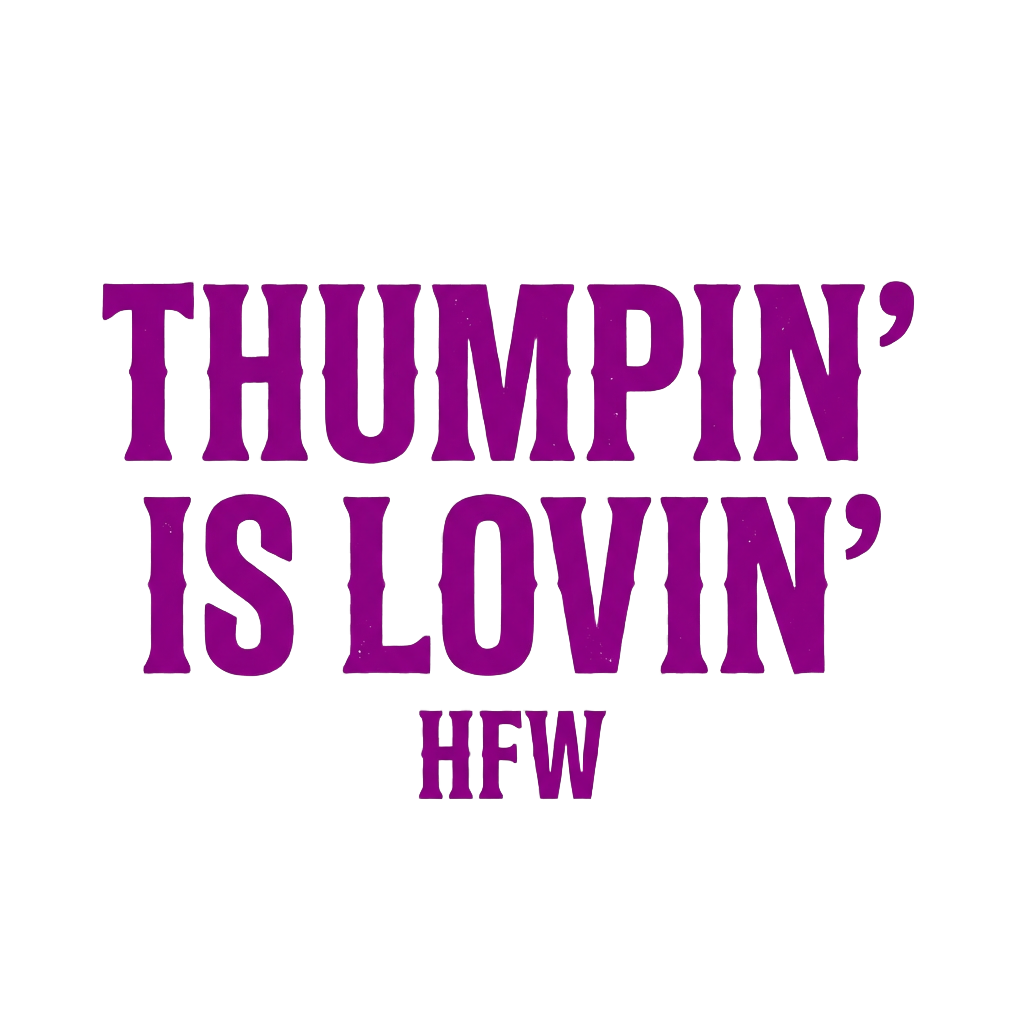
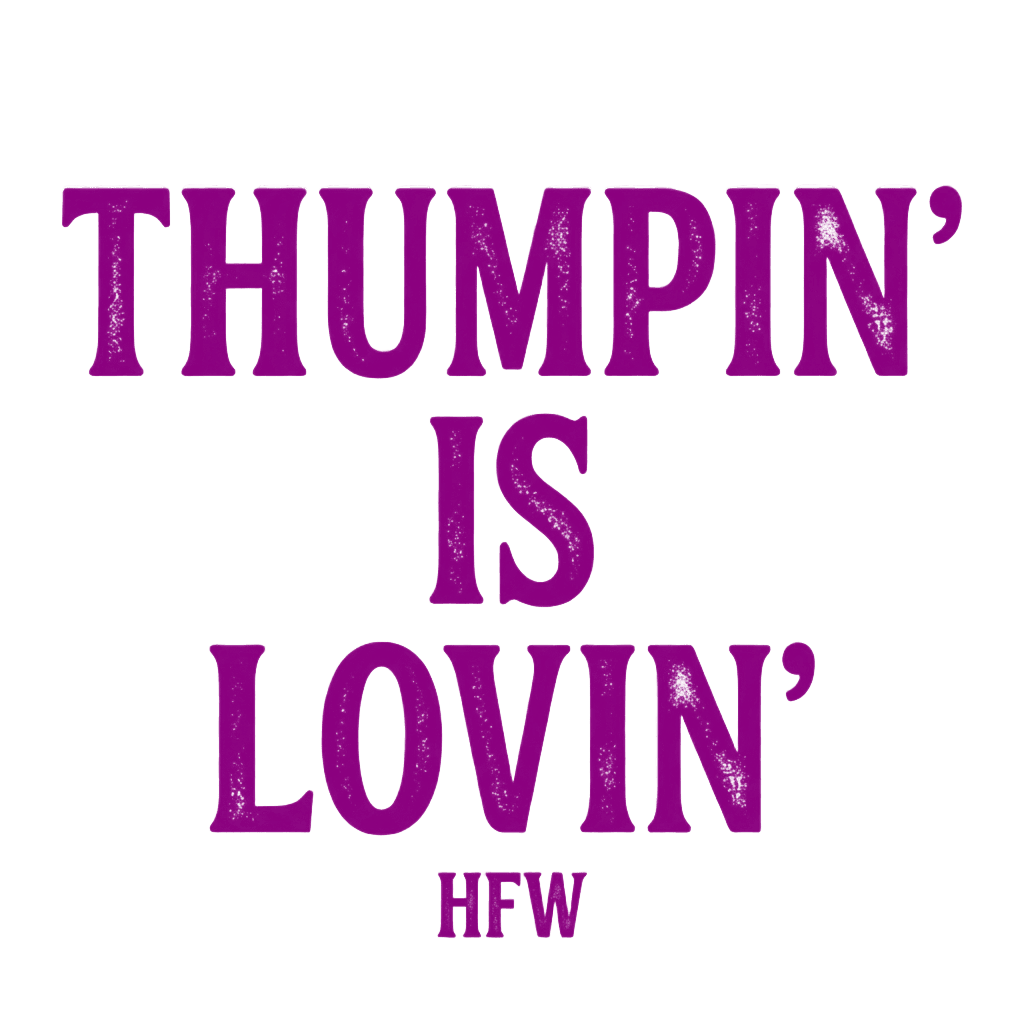
Fix purple Thumpin Is Lovin graphic to match pink layout
- Purple version had IS LOVIN' on one line, now matches pink:
  THUMPIN' / IS / LOVIN' / HFW (each on its own line)
- Recolored from pink template preserving font, texture, and spacing
- Bumped cache version to v=13

Changed region(s): [[0.0625, 0.1562, 0.9375, 0.8125], [0.4062, 0.8438, 0.5938, 0.9375]]

diff --git a/src/data/catalog.ts b/src/data/catalog.ts
@@ -244,8 +244,8 @@ export const graphics = [
   {
     id: 'thumpin-is-lovin-purple',
     name: 'Thumpin\' Is Lovin\' (Purple)',
-    thumbnail: '/images/graphics/thumpin-is-lovin-purple.png?v=12',
-    fullImage: '/images/graphics/thumpin-is-lovin-purple.png?v=12',
+    thumbnail: '/images/graphics/thumpin-is-lovin-purple.png?v=13',
+    fullImage: '/images/graphics/thumpin-is-lovin-purple.png?v=13',
     restrictToGarments: ['tank-womens', 'tshirt']  // Women's tanks and unisex t-shirts
   }
 ]
